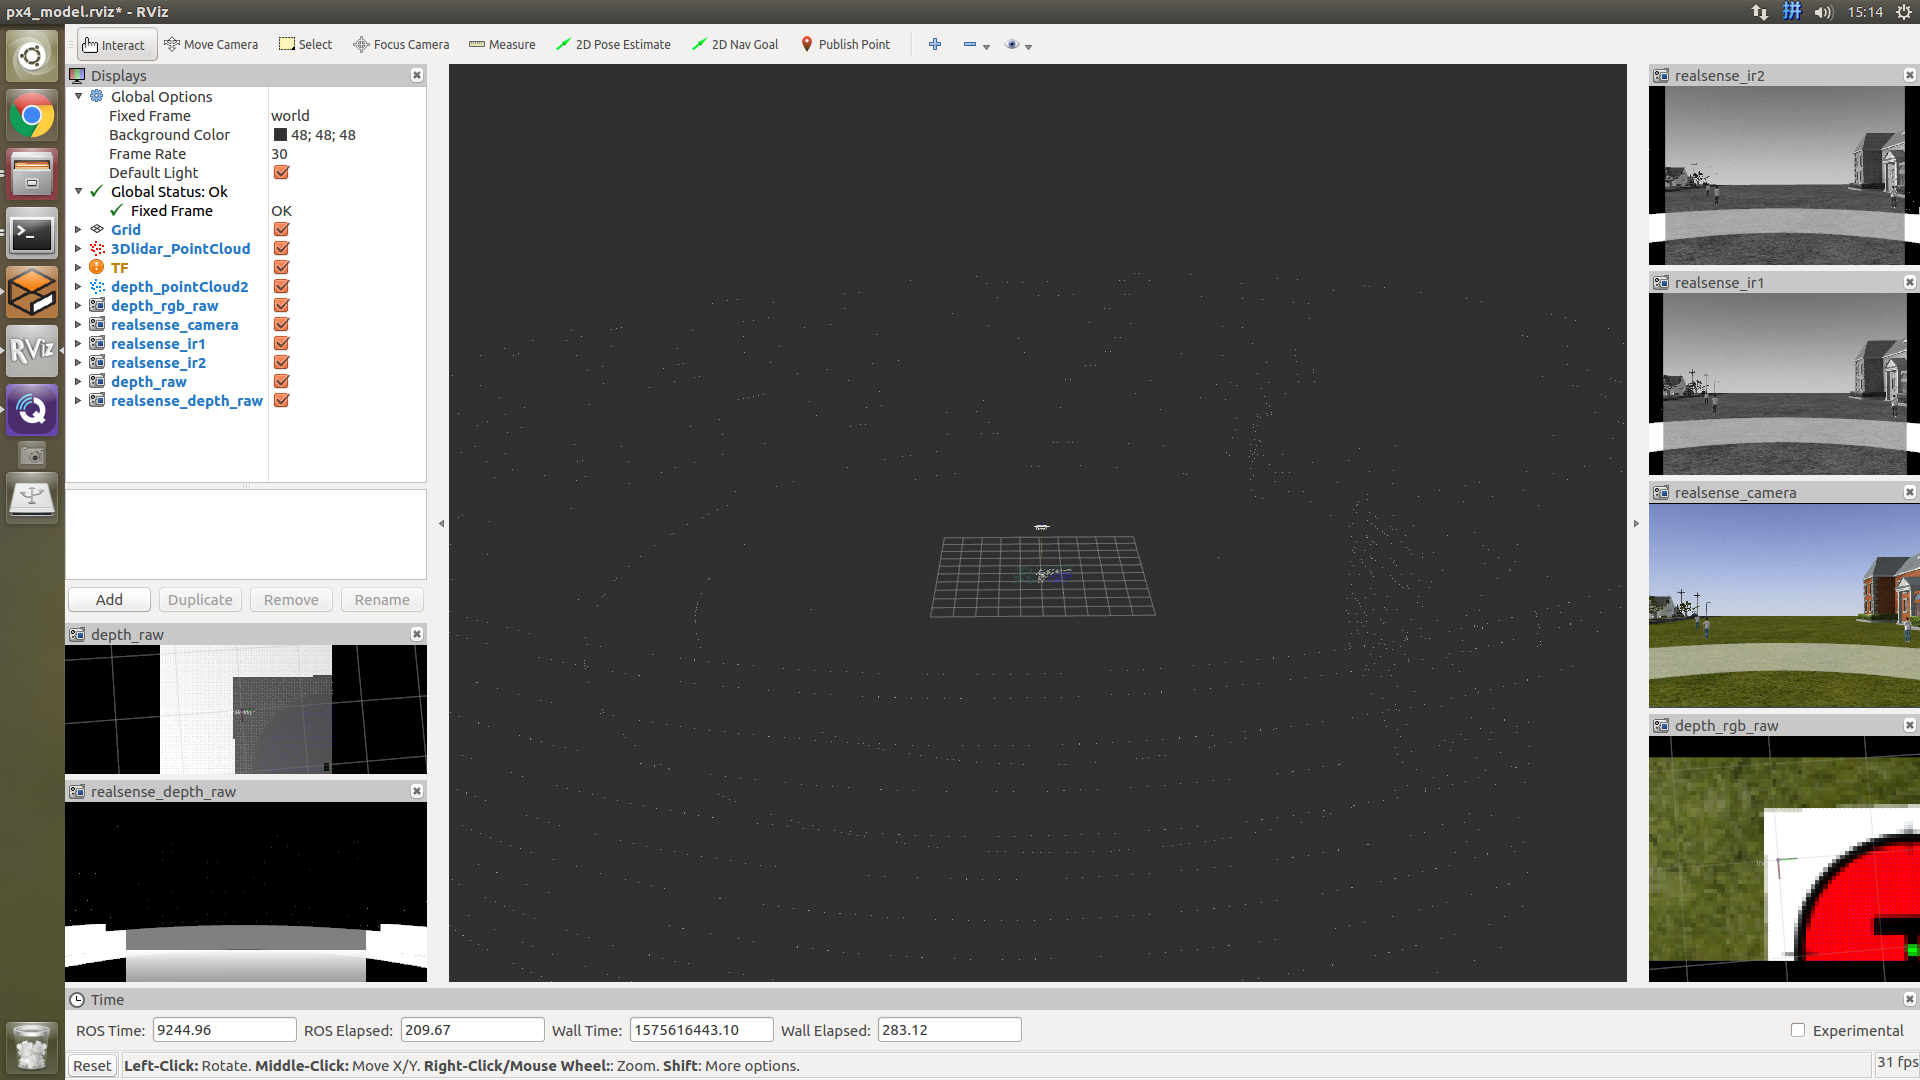
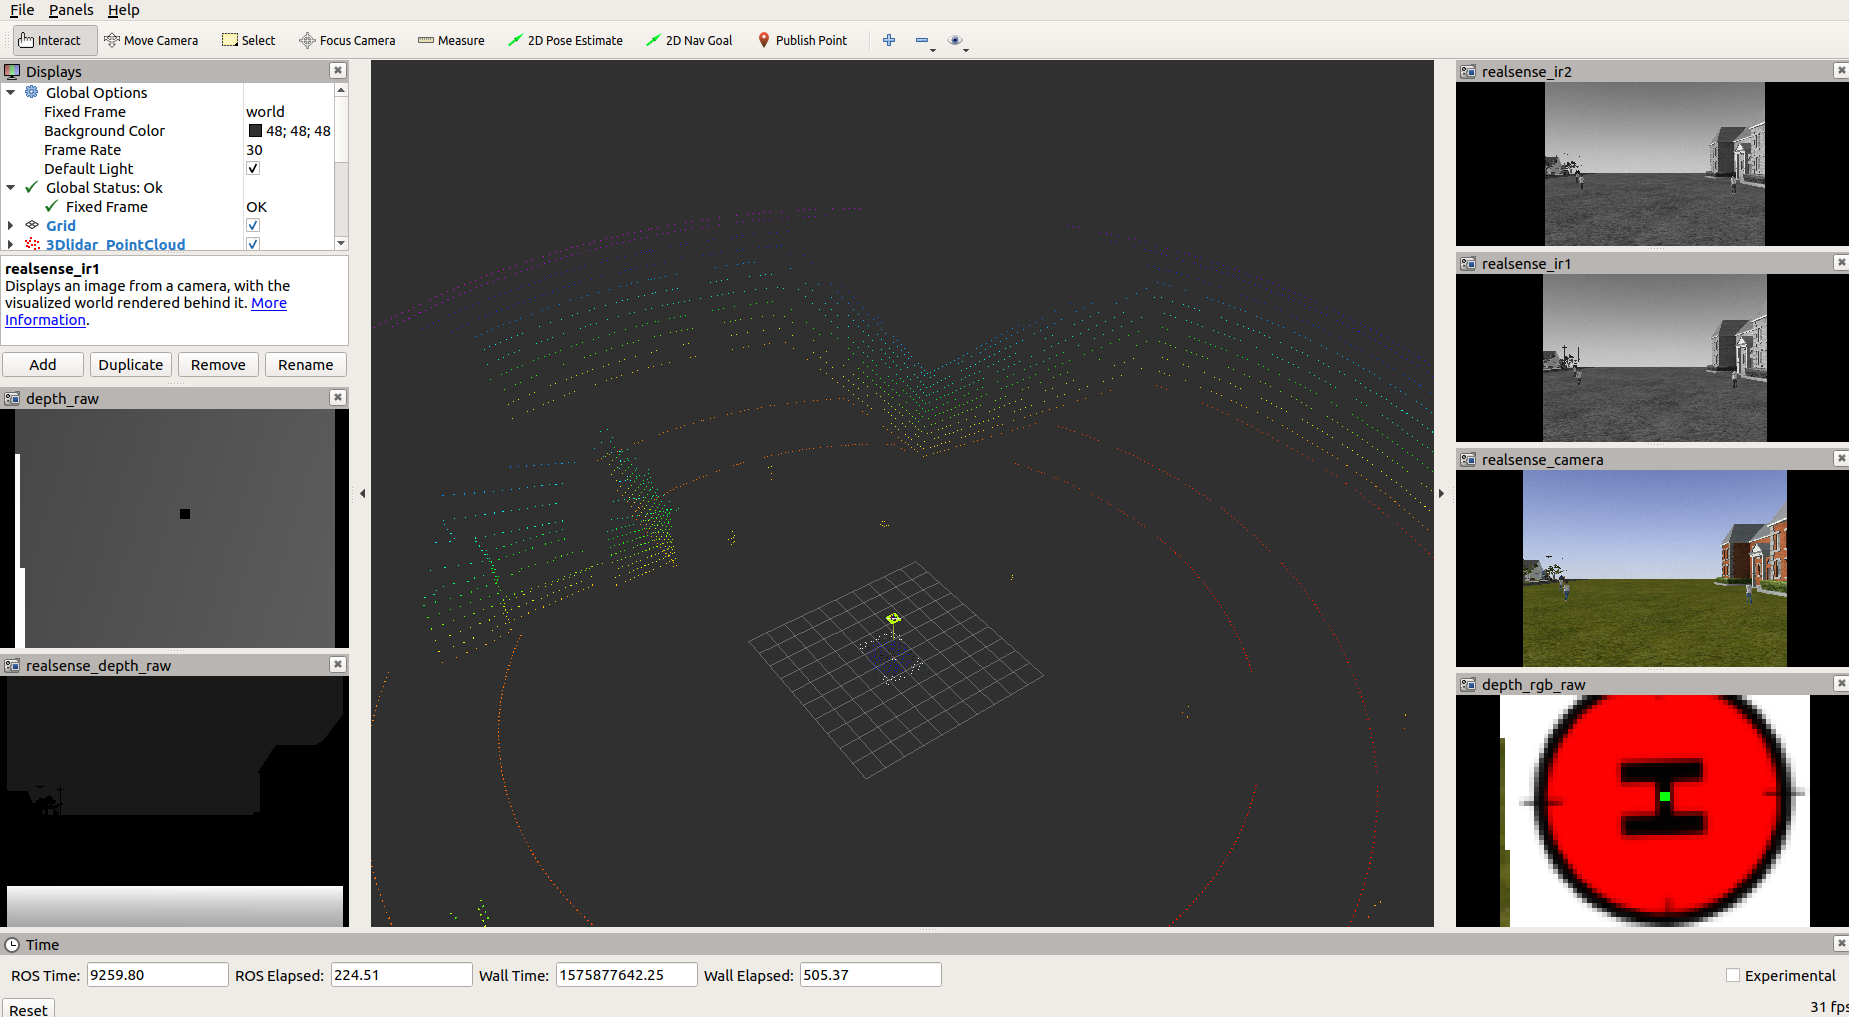
modifier px4_model.rviz

diff --git a/README.md b/README.md
@@ -13,7 +13,7 @@
 
 ![image](http://files.amovauto.com:8088/group1/default/20191206/18/07/1/gazebo_world.jpg)
 
-![image](http://files.amovauto.com:8088/group1/default/20191206/18/08/1/sensor_rviz.jpg)
+![image](http://files.amovauto.com:8088/group1/default/20191209/15/50/1/sensor_rviz.png)
 
 - 配置PX4以及ros环境
 
